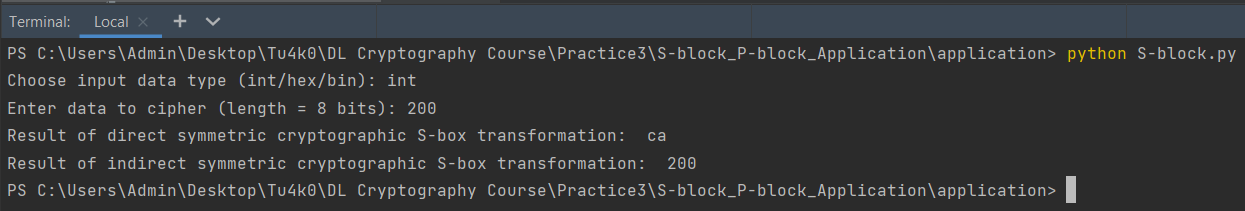
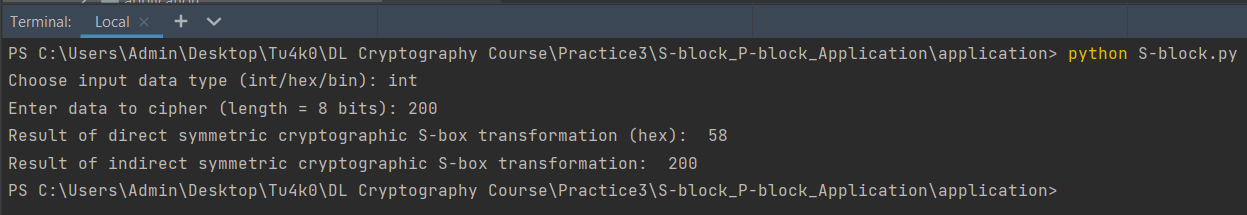
Update repository

diff --git a/Practice3/S-block_P-block_Application/application/S-block.py b/Practice3/S-block_P-block_Application/application/S-block.py
@@ -93,7 +93,7 @@ if __name__ == "__main__":
     blocks = divide_into_tetrads(input_data_binary)
     output_data_binary = search_value_s_box(blocks, s_box)
     output_data = convert_bin_to_output_hex(output_data_binary)
-    print('Result of direct symmetric cryptographic S-box transformation: ', output_data)
+    print('Result of direct symmetric cryptographic S-box transformation (hex): ', output_data)
     output_data_bin = convert_to_bits(output_data)
     s_box_reverse = reverse_s_box(s_box)
     blocks = divide_into_tetrads(output_data_bin)
